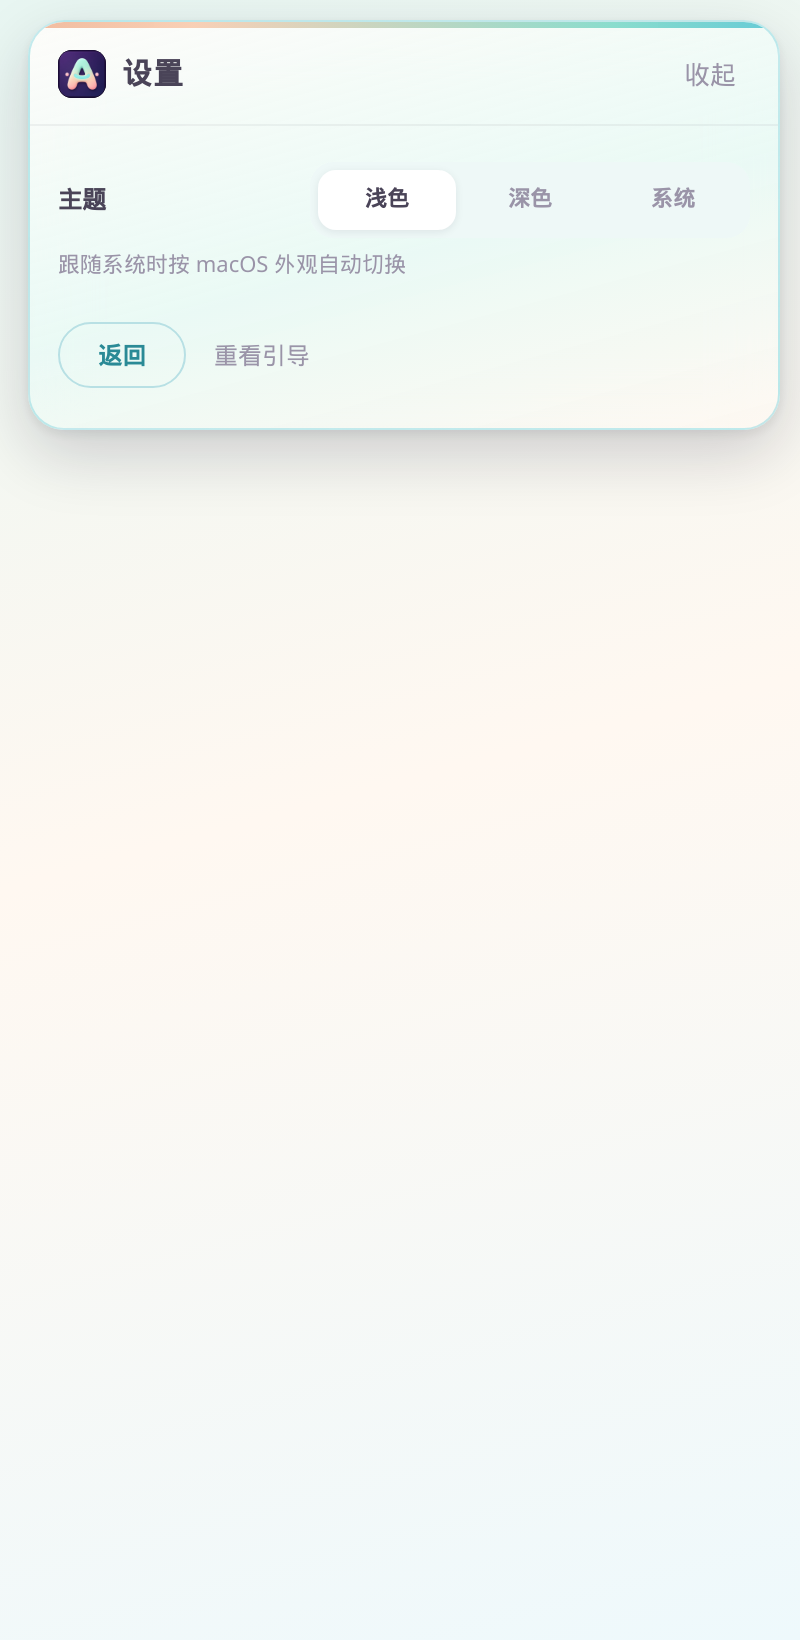
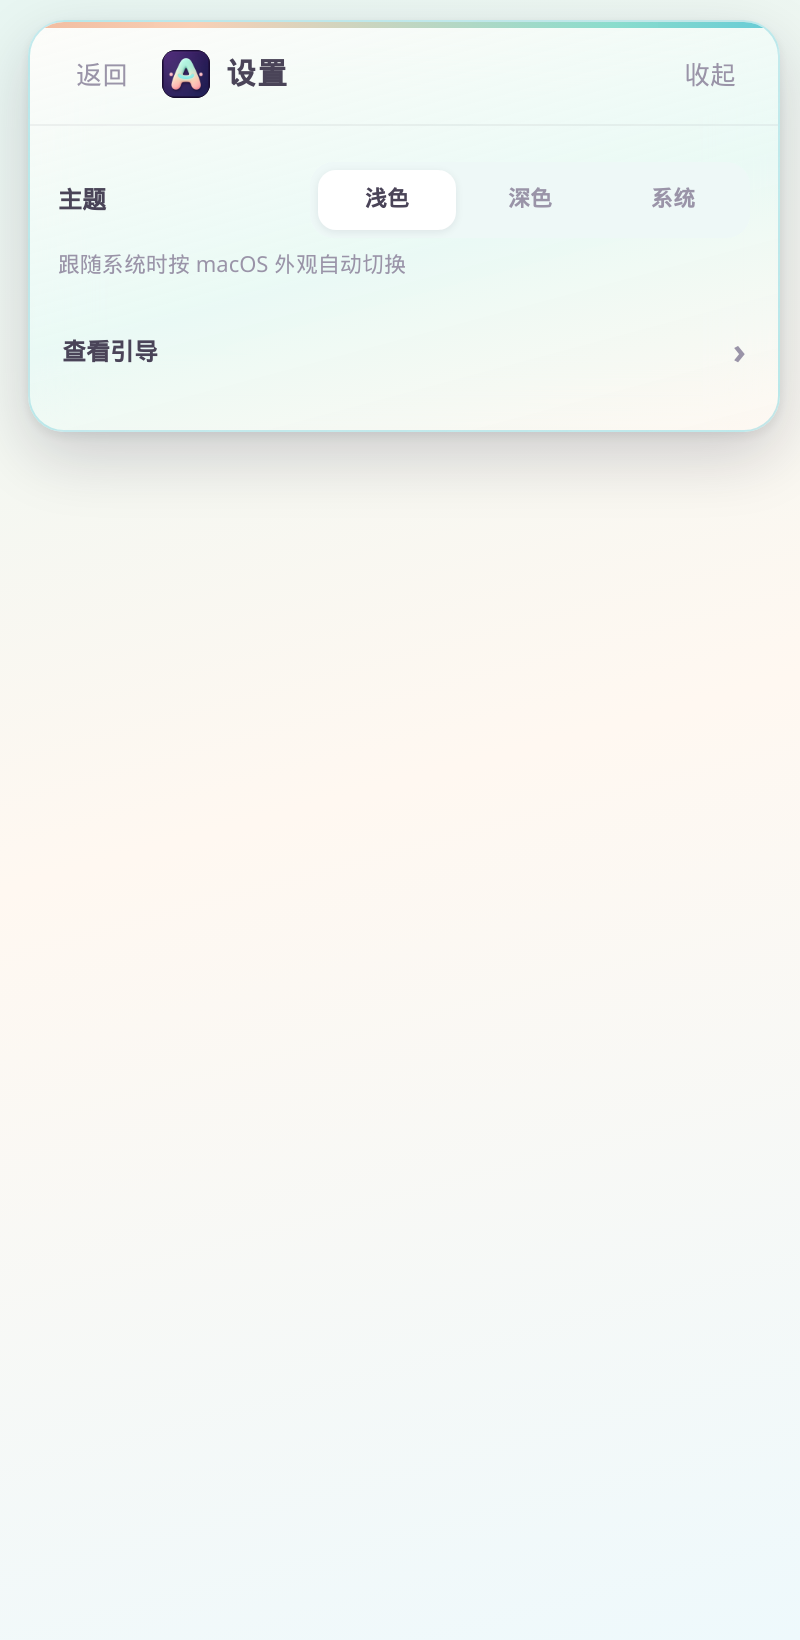
fix(设置): 顶栏返回与「查看引导」行条目
返回移至顶栏左侧；查看引导改为主题同级可点行（右箭头）；移除底部返回与脚链。

Changed region(s): [[0.0625, 0.0311, 0.375, 0.0622], [0.0625, 0.1866, 0.2188, 0.2488], [0.2812, 0.1866, 0.3438, 0.2488]]

diff --git a/src/App.tsx b/src/App.tsx
@@ -9,7 +9,7 @@ import {
   INTRO_STEPS,
   INTRO_STORAGE_KEY,
   PREFLIGHT_CHECK_META,
-  REPLAY_INTRO_LABEL,
+  VIEW_INTRO_LABEL,
 } from "./introContent";
 import { getRowPresentation } from "./rowPresentation";
 import { Toast, type ToastKind } from "./Toast";
@@ -423,6 +423,15 @@ function App() {
         >
           <header className="chrome">
             <div className="title-wrap">
+              {inSettings ? (
+                <button
+                  type="button"
+                  className="btn-text btn-chrome-back"
+                  onClick={closeSettings}
+                >
+                  返回
+                </button>
+              ) : null}
               <div className="badge">
                 <img src={logoUrl} alt="" />
               </div>
@@ -482,8 +491,7 @@ function App() {
               <SettingsView
                 themePreference={themePreference}
                 onThemeChange={setTheme}
-                onBack={closeSettings}
-                onReplayIntro={replayIntro}
+                onViewIntro={replayIntro}
               />
             ) : inIntro ? (
               <IntroView
@@ -556,13 +564,11 @@ const THEME_OPTIONS = [
 function SettingsView({
   themePreference,
   onThemeChange,
-  onBack,
-  onReplayIntro,
+  onViewIntro,
 }: {
   themePreference: ThemePreference;
   onThemeChange: (next: ThemePreference) => void;
-  onBack: () => void;
-  onReplayIntro: () => void;
+  onViewIntro: () => void;
 }) {
   return (
     <div className="settings-page">
@@ -586,23 +592,16 @@ function SettingsView({
         </div>
         <p className="settings-hint">跟随系统时按 macOS 外观自动切换</p>
       </div>
-      <div className="settings-foot">
-        <button
-          type="button"
-          className="btn-secondary settings-back"
-          onClick={onBack}
-        >
-          返回
-        </button>
-        <button
-          type="button"
-          className="settings-extra"
-          aria-label={REPLAY_INTRO_LABEL}
-          onClick={onReplayIntro}
-        >
-          {REPLAY_INTRO_LABEL}
-        </button>
-      </div>
+      <button
+        type="button"
+        className="settings-row settings-row-action"
+        onClick={onViewIntro}
+      >
+        <span className="settings-label">{VIEW_INTRO_LABEL}</span>
+        <span className="settings-chevron" aria-hidden>
+          ›
+        </span>
+      </button>
     </div>
   );
 }

diff --git a/src/App.css b/src/App.css
@@ -345,6 +345,7 @@ body {
   display: flex;
   align-items: center;
   gap: 8px;
+  min-width: 0;
 }
 
 .badge {
@@ -410,6 +411,14 @@ body {
   color: var(--ink-2);
   font-weight: 600;
   font-size: 12px;
+}
+
+.btn-chrome-back {
+  color: var(--mint-hover-ink);
+  font-weight: 600;
+  font-size: 12px;
+  padding: 5px 6px 5px 0;
+  flex: none;
 }
 
 .btn-ghost,
@@ -1036,15 +1045,29 @@ body {
   max-width: 220px;
 }
 
-.settings-foot {
-  display: flex;
-  align-items: center;
-  gap: 12px;
-  padding: 4px 2px 0;
+.settings-row-action {
+  width: 100%;
+  margin: 0;
+  padding: 10px 4px;
+  border: none;
+  border-radius: 12px;
+  background: transparent;
+  cursor: pointer;
+  text-align: left;
+  font: inherit;
+  transition: background 0.12s ease;
 }
 
-.settings-foot .settings-back {
-  min-width: 64px;
+.settings-row-action:hover {
+  background: var(--mint-hover-bg);
+}
+
+.settings-chevron {
+  flex: none;
+  font-size: 18px;
+  line-height: 1;
+  font-weight: 600;
+  color: var(--ink-3);
 }
 
 .theme-segment {
@@ -1078,21 +1101,6 @@ body {
   background: var(--segment-on-bg);
   color: var(--heading);
   box-shadow: var(--segment-on-shadow);
-}
-
-.settings-extra {
-  appearance: none;
-  border: none;
-  background: transparent;
-  padding: 4px 2px;
-  font: inherit;
-  font-size: 12px;
-  color: var(--ink-3);
-  cursor: pointer;
-}
-
-.settings-extra:hover {
-  color: var(--mint-hover-ink);
 }
 
 .toast {

diff --git a/src/introContent.ts b/src/introContent.ts
@@ -1,7 +1,7 @@
 export const INTRO_STORAGE_KEY = "asurada_intro_complete";
 
-/** 设置页脚链：重看引导（深浅色统一文案） */
-export const REPLAY_INTRO_LABEL = "重看引导";
+/** 设置页「查看引导」行标签 */
+export const VIEW_INTRO_LABEL = "查看引导";
 
 export const INTRO_STEPS = [
   {
